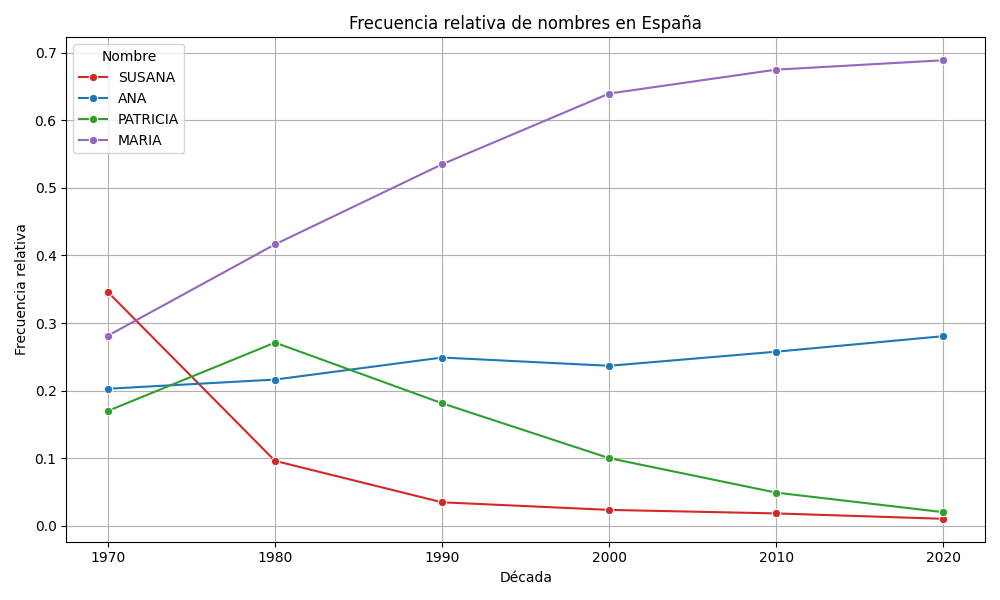
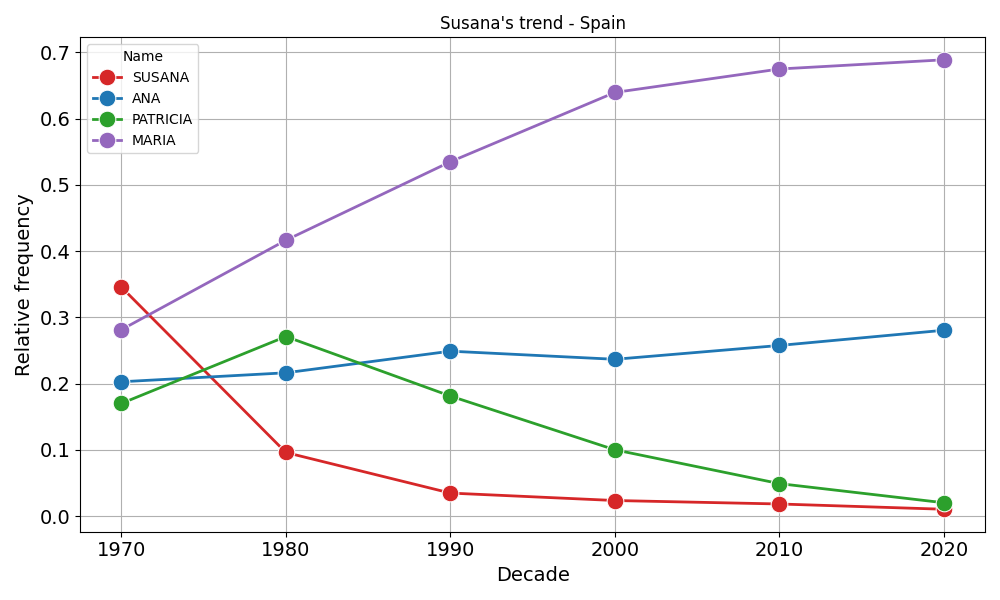
style: update plot titles and fonts

diff --git a/scripts/04_graficas_espana.py b/scripts/04_graficas_espana.py
@@ -21,10 +21,15 @@ plt.savefig('../outputs/plots/frecuencia_absoluta_espana.png')
 plt.close()
 
 # Frecuencia relativa
-df_rel_plot = df_rel.melt(id_vars='Década', var_name='Nombre', value_name='Frecuencia relativa')
+df_rel_plot = df_rel.melt(id_vars='Década', var_name='Name', value_name='Relative frequency')
 plt.figure(figsize=(10,6))
-sns.lineplot(data=df_rel_plot, x='Década', y='Frecuencia relativa', hue='Nombre', palette=palette, marker="o")
-plt.title("Frecuencia relativa de nombres en España")
+sns.lineplot(data=df_rel_plot, x='Década', y='Relative frequency', hue='Name', palette=palette,
+             marker="o", markersize= 12, linewidth=2)
+plt.title("Susana's trend - Spain")
+plt.xlabel("Decade", fontsize=14)
+plt.ylabel("Relative frequency", fontsize=14)
+plt.tick_params(axis='both', labelsize=14)
+
 plt.grid(True)
 plt.tight_layout()
 plt.savefig('../outputs/plots/frecuencia_relativa_espana.png')

diff --git a/scripts/05_graficas_uruguay.py b/scripts/05_graficas_uruguay.py
@@ -23,8 +23,12 @@ plt.close()
 # Frecuencia relativa
 df_rel_plot = df_rel.melt(id_vars='Década', var_name='Nombre', value_name='Frecuencia relativa')
 plt.figure(figsize=(10,6))
-sns.lineplot(data=df_rel_plot, x='Década', y='Frecuencia relativa', hue='Nombre', palette=palette, marker="o")
-plt.title("Frecuencia relativa de nombres en Uruguay")
+sns.lineplot(data=df_rel_plot, x='Década', y='Frecuencia relativa', hue='Nombre', palette=palette,
+             marker="o", markersize= 12, linewidth=2)
+plt.title("Susana's trend - Uruguay")
+plt.xlabel("Decade", fontsize=14)
+plt.ylabel("Relative frequency", fontsize=14)
+plt.tick_params(axis='both', labelsize=14)
 plt.grid(True)
 plt.tight_layout()
 plt.savefig('../outputs/plots/frecuencia_relativa_uruguay.png')
